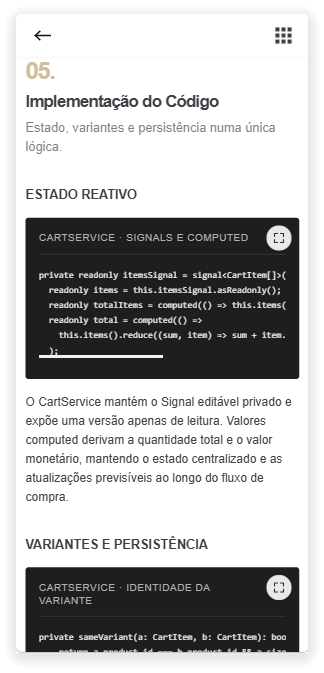
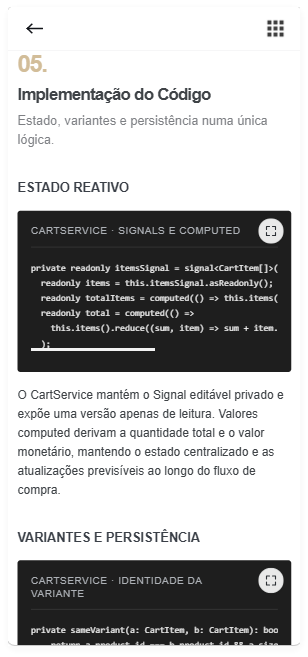
docs: refine README mobile presentation

diff --git a/README.md b/README.md
@@ -94,8 +94,8 @@ Dense mobile sequences become swipe-based only where this improves scanning. Par
 Code examples remain horizontally explorable in context and can be expanded into a landscape presentation when additional reading space is useful.
 
 <p align="center">
-  <img src="./public/projects/readmeGithub/juh_codigo_shadow.png" width="300" alt="JUH code snippet in its mobile context">&nbsp;&nbsp;
-  <img src="./public/projects/readmeGithub/juh_codigoampliado.png" width="480" alt="JUH code snippet expanded in landscape">
+  <img src="./public/projects/readmeGithub/juh_codigo_shadow.png" width="280" alt="JUH code snippet in its mobile context">&nbsp;&nbsp;
+  <img src="./public/projects/readmeGithub/juh_codigoampliado.png" width="360" alt="JUH code snippet expanded in landscape">
 </p>
 
 ---
@@ -175,7 +175,7 @@ Key areas:
 Contact is part of the product experience. Rather than relying only on a static form, Atlyon directs different visitor intents — including recruiters, collaborations and project enquiries — towards relevant information or contact paths.
 
 <p align="center">
-  <img src="./public/projects/readmeGithub/chat.png" width="300" alt="Atlyon guided contact experience">
+  <img src="./public/projects/readmeGithub/chat_shadow.png" width="300" alt="Atlyon guided contact experience">
 </p>
 
 ---
